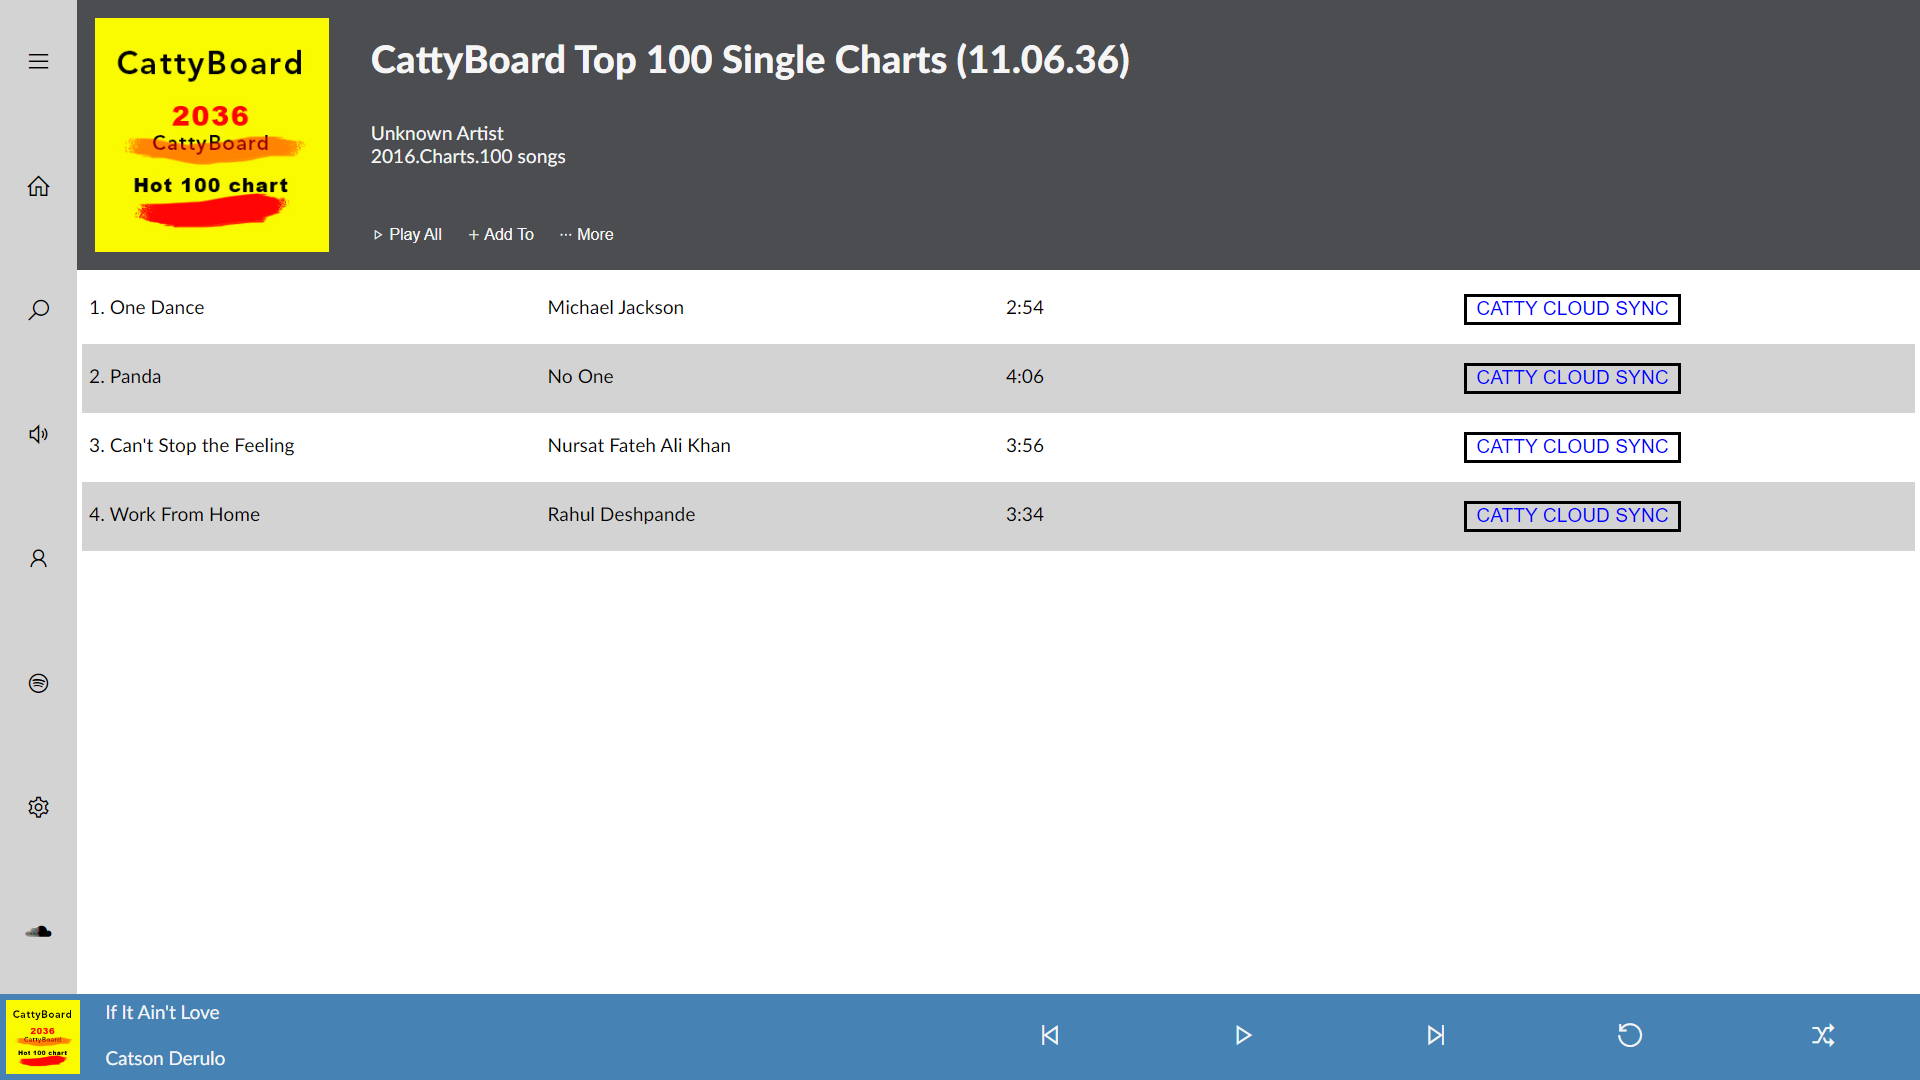
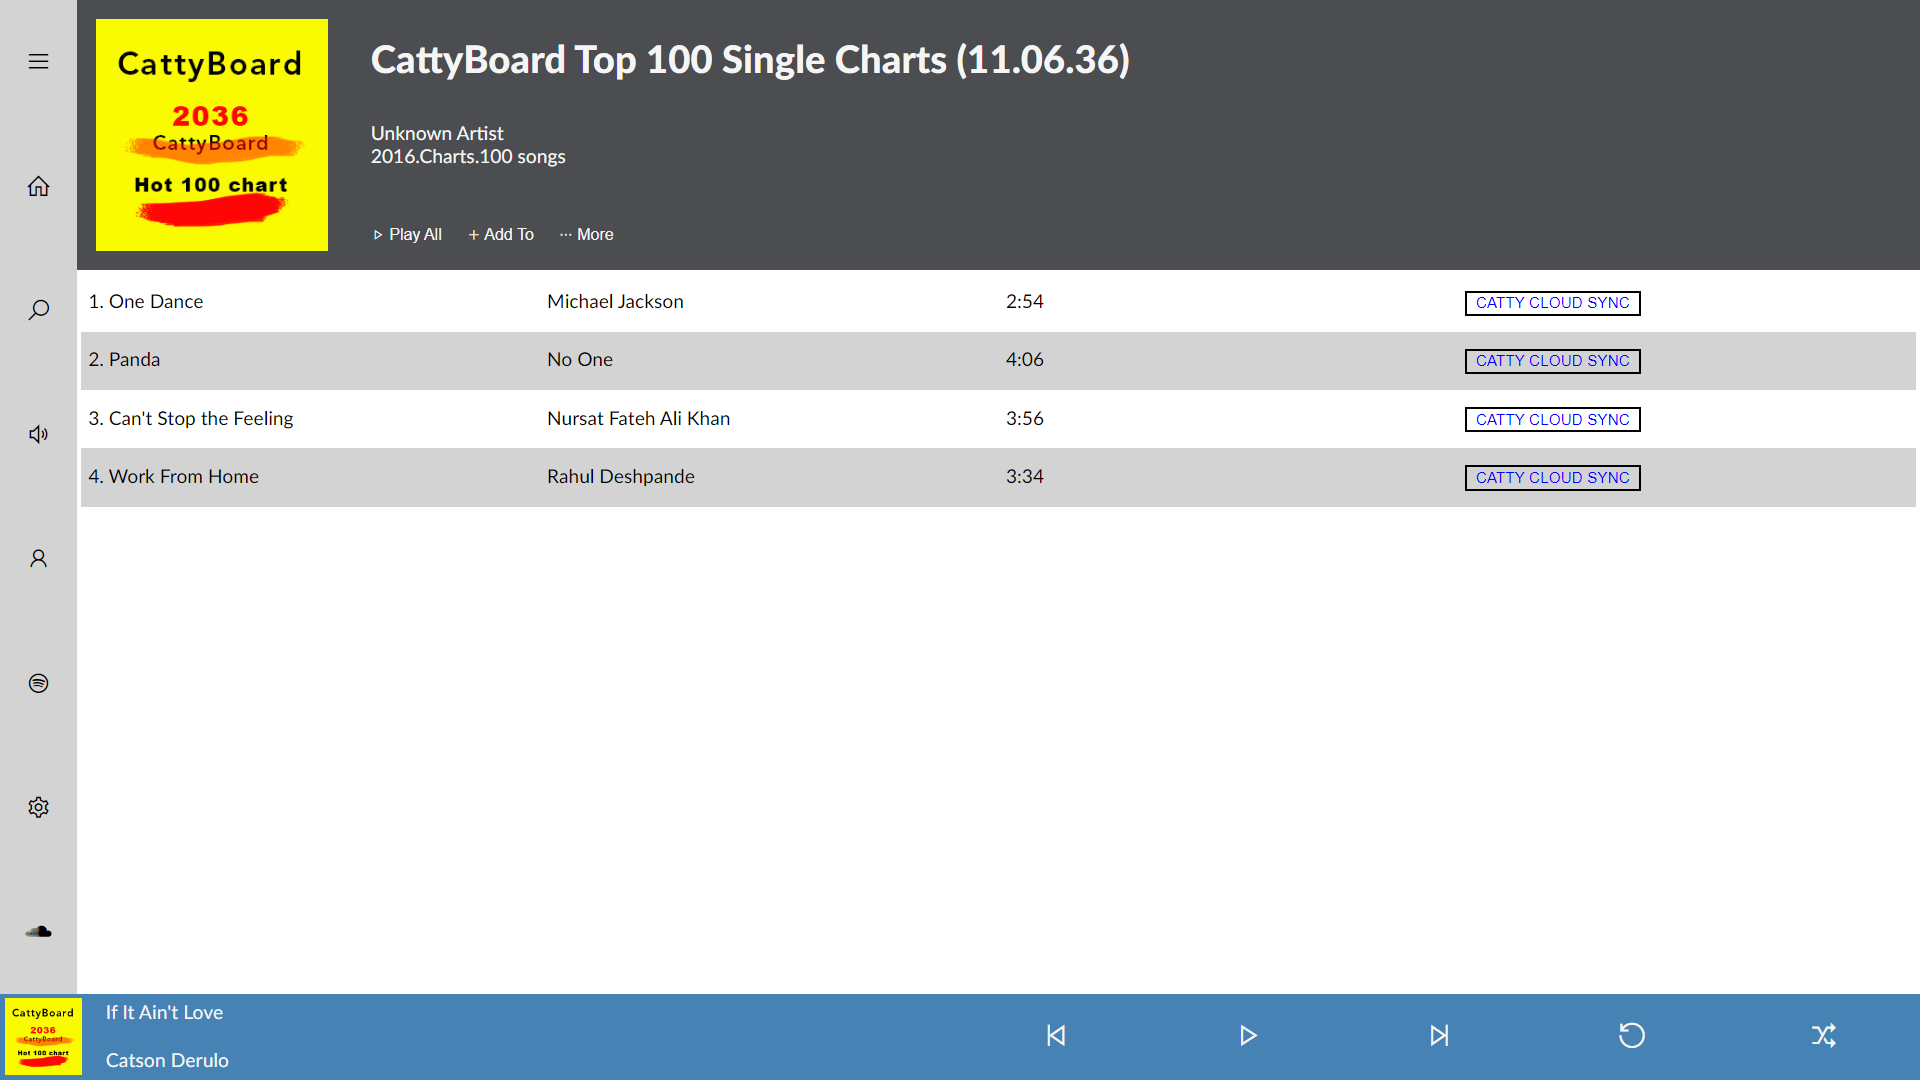
fix: UI updates - added doctype - re-alignments - moved css under assets directory - updated image name to lowercase - minor measurement fixes: converted units relative to viewport

diff --git a/Week-1/Assignment-2/index.html b/Week-1/Assignment-2/index.html
@@ -1,97 +1,146 @@
+<!DOCTYPE html>
 <html>
+  <head>
+    <meta name="viewport" content="width=device-width, initial-scale=1" />
+    <link
+      rel="stylesheet"
+      href="https://cdnjs.cloudflare.com/ajax/libs/line-awesome/1.3.0/line-awesome/css/line-awesome.min.css"
+      integrity="sha512-vebUliqxrVkBy3gucMhClmyQP9On/HAWQdKDXRaAlb/FKuTbxkjPKUyqVOxAcGwFDka79eTF+YXwfke1h3/wfg=="
+      crossorigin="anonymous"
+      referrerpolicy="no-referrer"
+    />
+    <link
+      rel="stylesheet"
+      href="https://cdnjs.cloudflare.com/ajax/libs/lato-font/3.0.0/css/lato-font.min.css"
+      integrity="sha512-rSWTr6dChYCbhpHaT1hg2tf4re2jUxBWTuZbujxKg96+T87KQJriMzBzW5aqcb8jmzBhhNSx4XYGA6/Y+ok1vQ=="
+      crossorigin="anonymous"
+      referrerpolicy="no-referrer"
+    />
+    <link rel="stylesheet" href="./assets/css/index.css" />
+  </head>
 
-<head>
-    <link rel="stylesheet"
-        href="https://cdnjs.cloudflare.com/ajax/libs/line-awesome/1.3.0/line-awesome/css/line-awesome.min.css"
-        integrity="sha512-vebUliqxrVkBy3gucMhClmyQP9On/HAWQdKDXRaAlb/FKuTbxkjPKUyqVOxAcGwFDka79eTF+YXwfke1h3/wfg=="
-        crossorigin="anonymous" referrerpolicy="no-referrer" />
-    <link rel="stylesheet" href="https://cdnjs.cloudflare.com/ajax/libs/lato-font/3.0.0/css/lato-font.min.css"
-        integrity="sha512-rSWTr6dChYCbhpHaT1hg2tf4re2jUxBWTuZbujxKg96+T87KQJriMzBzW5aqcb8jmzBhhNSx4XYGA6/Y+ok1vQ=="
-        crossorigin="anonymous" referrerpolicy="no-referrer" />
-    <link rel="stylesheet" href="index.css" />
-</head>
-
-<body>
+  <body>
     <nav class="sidenav">
-        <ul>
-            <li><a href="#"><em class="las la-lg la-bars"></em></a></li>
-            <li><a href="#"><em class="las la-lg la-home"></em></a></li>
-            <li><a href="#"><em class="las la-lg la-search"></em></a></li>
-            <li><a href="#"><em class="las la-lg la-volume-up"></em></a></li>
-            <li><a href="#"><em class="las la-lg la-user"></em></a></li>
-            <li><a href="#"><em class="lab la-lg la-spotify"></em></a></li>
-            <li><a href="#"><em class="las la-lg la-cog"></em></a></li>
-            <li><a href="#"><em class="lab la-lg la-soundcloud"></em></a></li>
-        </ul>
+      <ul>
+        <li>
+          <a href="#"><em class="las la-lg la-bars"></em></a>
+        </li>
+        <li>
+          <a href="#"><em class="las la-lg la-home"></em></a>
+        </li>
+        <li>
+          <a href="#"><em class="las la-lg la-search"></em></a>
+        </li>
+        <li>
+          <a href="#"><em class="las la-lg la-volume-up"></em></a>
+        </li>
+        <li>
+          <a href="#"><em class="las la-lg la-user"></em></a>
+        </li>
+        <li>
+          <a href="#"><em class="lab la-lg la-spotify"></em></a>
+        </li>
+        <li>
+          <a href="#"><em class="las la-lg la-cog"></em></a>
+        </li>
+        <li>
+          <a href="#"><em class="lab la-lg la-soundcloud"></em></a>
+        </li>
+      </ul>
     </nav>
 
     <section class="content">
-        <section class="header">
-            <img src="https://vif1g.csb.app/src/assets/cattyboard.jpg" />
-            <aside class="header-desc">
-                <h3>CattyBoard Top 100 Single Charts (11.06.36)</h3>
-                <p>
-                    <span>Unknown Artist</span><br>
-                    <span>2016.Charts.100 songs</span>
-                </p>
-                <ul>
-                    <li><button><em class="las la-sm la-play"></em> Play All</button></li>
-                    <li><button><em class="las la-sm la-plus"></em> Add To</button></li>
-                    <li><button><em class="las la-sm la-ellipsis-h"></em> More</button></li>
-                </ul>
-            </aside>
-        </section>
-
-        <section class="songs-list">
-            <table class="table" cellspacing="0" cellpadding="5">
-                <tbody>
-                    <tr>
-                        <td>1. One Dance</td>
-                        <td>Michael Jackson</td>
-                        <td>2:54</td>
-                        <td><button>Catty Cloud Sync</button></td>
-                    </tr>
-                    <tr>
-                        <td>2. Panda</td>
-                        <td>No One</td>
-                        <td>4:06</td>
-                        <td><button>Catty Cloud Sync</button></td>
-                    </tr>
-                    <tr>
-                        <td>3. Can't Stop the Feeling</td>
-                        <td>Nursat Fateh Ali Khan</td>
-                        <td>3:56</td>
-                        <td><button>Catty Cloud Sync</button></td>
-                    </tr>
-                    <tr>
-                        <td>4. Work From Home</td>
-                        <td>Rahul Deshpande</td>
-                        <td>3:34</td>
-                        <td><button>Catty Cloud Sync</button></td>
-                    </tr>
-                </tbody>
-            </table>
-        </section>
-    </section>
-</body>
-
-<footer>
-    <div class="footer-info">
+      <section class="header">
         <img src="https://vif1g.csb.app/src/assets/cattyboard.jpg" />
-        <p>
-            <span>If It Ain't Love</span><br>
-            <span>Catson Derulo</span>
-        </p>
+        <aside class="header-desc">
+          <h3>CattyBoard Top 100 Single Charts (11.06.36)</h3>
+          <p>
+            <span>Unknown Artist</span><br />
+            <span>2016.Charts.100 songs</span>
+          </p>
+          <ul>
+            <li>
+              <button><em class="las la-sm la-play"></em> Play All</button>
+            </li>
+            <li>
+              <button><em class="las la-sm la-plus"></em> Add To</button>
+            </li>
+            <li>
+              <button><em class="las la-sm la-ellipsis-h"></em> More</button>
+            </li>
+          </ul>
+        </aside>
+      </section>
+
+      <section class="songs-list">
+        <table class="table" cellspacing="0" cellpadding="5">
+          <tbody>
+            <tr>
+              <td>1. One Dance</td>
+              <td>Michael Jackson</td>
+              <td>2:54</td>
+              <td><button>Catty Cloud Sync</button></td>
+            </tr>
+            <tr>
+              <td>2. Panda</td>
+              <td>No One</td>
+              <td>4:06</td>
+              <td><button>Catty Cloud Sync</button></td>
+            </tr>
+            <tr>
+              <td>3. Can't Stop the Feeling</td>
+              <td>Nursat Fateh Ali Khan</td>
+              <td>3:56</td>
+              <td><button>Catty Cloud Sync</button></td>
+            </tr>
+            <tr>
+              <td>4. Work From Home</td>
+              <td>Rahul Deshpande</td>
+              <td>3:34</td>
+              <td><button>Catty Cloud Sync</button></td>
+            </tr>
+          </tbody>
+        </table>
+      </section>
+    </section>
+  </body>
+
+  <footer>
+    <div class="footer-info">
+      <img src="https://vif1g.csb.app/src/assets/cattyboard.jpg" />
+      <p>
+        <span>If It Ain't Love</span><br />
+        <span>Catson Derulo</span>
+      </p>
     </div>
     <div class="footer-actions">
-        <ul>
-            <li><button><em class="las la-step-backward"></em></button></li>
-            <li><button><em class="las la-play"></em></button></li>
-            <li><button><em class="las la-step-forward"></em></button></li>
-            <li><button><em class="las la-undo-alt"></em></button></li>
-            <li><button><em class="las la-random"></em></button></li>
-        </ul>
+      <ul>
+        <li>
+          <button>
+            <em class="las la-step-backward"></em>
+          </button>
+        </li>
+        <li>
+          <button>
+            <em class="las la-play"></em>
+          </button>
+        </li>
+        <li>
+          <button>
+            <em class="las la-step-forward"></em>
+          </button>
+        </li>
+        <li>
+          <button>
+            <em class="las la-undo-alt"></em>
+          </button>
+        </li>
+        <li>
+          <button>
+            <em class="las la-random"></em>
+          </button>
+        </li>
+      </ul>
     </div>
-</footer>
-
+  </footer>
 </html>

diff --git a/Week-1/Assignment-2/assets/css/index.css b/Week-1/Assignment-2/assets/css/index.css
@@ -25,12 +25,12 @@ footer > div {
 }
 
 footer > div.footer-info > img {
-  height: calc(8vh - 8px);
-  padding: 4px;
+  height: calc(8vh - 0.4em);
+  padding: 0.2em;
 }
 
 footer > div.footer-info > p {
-  font-size: 1.75vmin;
+  font-size: 1.8vmin;
   color: whitesmoke;
   display: flex;
   flex-direction: column;
@@ -51,7 +51,7 @@ footer > div.footer-actions > ul > li {
 }
 
 footer > div.footer-actions > ul > li > button > em {
-  font-size: 1.5vmax;
+  font-size: 1.6vmax;
 }
 
 footer > div.footer-actions > ul > li > button {
@@ -59,7 +59,7 @@ footer > div.footer-actions > ul > li > button {
   border-style: none;
   color: whitesmoke;
   height: 8vh;
-  padding: 0.5vmax;
+  padding: 0.4vmax;
   width: inherit;
 }
 
@@ -84,8 +84,8 @@ footer > div.footer-actions > ul > li > button:active {
 }
 
 .header > img {
-  height: calc(25vh - 24px);
-  padding: 12px;
+  height: calc(25vh - 1.6em);
+  padding: 0.8em;
 }
 
 .header > .header-desc {
@@ -151,8 +151,6 @@ footer > div.footer-actions > ul > li > button:active {
 
 .sidenav > ul > li {
   height: 100%;
-  display: flex;
-  align-items: center;
 }
 
 .sidenav > ul > li > a {
@@ -179,20 +177,21 @@ footer > div.footer-actions > ul > li > button:active {
 .songs-list > table {
   font-size: 1vw;
   width: 100%;
-  padding: 0.25vw;
+  padding: 0.2vw;
   table-layout: fixed;
 }
 
 .songs-list > table > tbody > tr {
   color: black;
-  line-height: 5vh;
+  line-height: 4vh;
 }
 
 .songs-list > table > tbody > tr > td > button {
   background-color: transparent;
   color: blue;
-  font-size: 1vw;
+  font-size: 0.8vw;
   text-transform: uppercase;
+  border: 0.2vh solid black;
 }
 
 .songs-list > table > tbody > tr:nth-child(even) {

diff --git a/Week-1/Assignment-2/README.MD b/Week-1/Assignment-2/README.MD
@@ -1,8 +1,8 @@
 # Pesto Assignments
-Welcome to Pesto assignment - 2 from the Week 1.
+Welcome to Pesto assignment - 2 from the [Week 1](https://pestotech.teachable.com/courses/1782350/lectures/40231525).
 
 ## Screenshots
-![Screenshot](./assets/images/Screenshot.png)
+![Screenshot](./assets/images/screenshot.png)
 
 ## Built with
 - HTML
